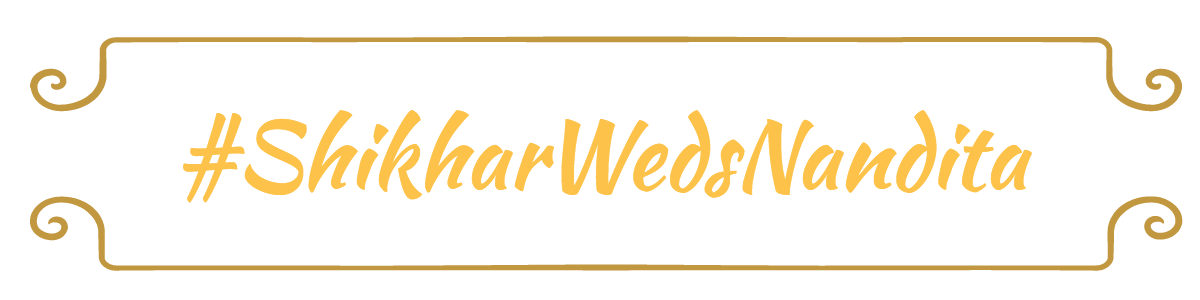
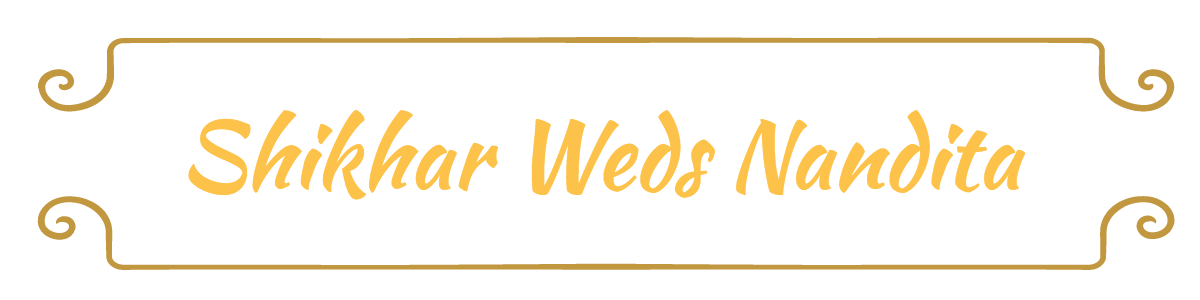
Minor Edits.

Changed region(s): [[0.1542, 0.36, 0.8633, 0.69], [0.0, 0.66, 0.9867, 0.93], [0.0, 0.12, 0.9867, 0.39]]

diff --git a/index.html b/index.html
@@ -18,7 +18,7 @@ gtag('config', 'UA-59933281-6');
     <meta name="author" content="">
     <meta name="google-site-verification" content="soPMzQDxzkpb6e2der47EKLMciXqSSe121Youw1WaVo" />
 
-    <title>#ShikharWedsNandita</title>
+    <title>Shikhar Weds Nandita</title>
 
     <!-- Bootstrap Core CSS -->
     <link href="css/bootstrap.min.css" rel="stylesheet">
@@ -91,6 +91,8 @@ gtag('config', 'UA-59933281-6');
                 <div class="col-lg-12">
                     <br><br><br><br><br><br><br><br>
                     <img src="title.png" style="width:100%;">
+                    <br>
+                      <h3>at Lucknow</h3>
                 </div>
             </div>
         </div>
@@ -129,7 +131,7 @@ gtag('config', 'UA-59933281-6');
                     <div class="row">
                       <br><br>
                       <div class="col-md-6">
-                    <h4><strong>Venue: </strong>Golden Blossom Imperial Resorts, Lucknow</h4>
+
                   </div>
                     <div class="col-mdf-6">
                     <h4 style="text-align:right;"><a href="https://www.google.co.in/maps/place/Golden+Blossom+Imperial+Resorts/@26.899999,81.094311,17z/data=!3m1!4b1!4m5!3m4!1s0x39995f5d9340c473:0xd04c8676415ea074!8m2!3d26.899999!4d81.096505">Click to Start Navigation!</a></h4>
@@ -148,10 +150,13 @@ gtag('config', 'UA-59933281-6');
             <div class="row">
                 <div class="col-lg-12">
                     <h1>RSVP</h1>
+                    <br>
                     <p>
                     We're so excited and would love it, if you could join us on this joyous occasion.
                   </p>
-                  <a href="https://docs.google.com/forms/d/e/1FAIpQLSdjUg3Y7Pq5laleYPaBBoVA4jZkdbtElBMlJ80n1aQg_FIecw/viewform?usp=sf_link" target="_blank">Click Here</a>
+                  <h4><a href="https://docs.google.com/forms/d/e/1FAIpQLSdjUg3Y7Pq5laleYPaBBoVA4jZkdbtElBMlJ80n1aQg_FIecw/viewform?usp=sf_link" target="_blank">Click Here</a></h4>
+                  <br>
+                  <img src="wine.png" style="width:200px;">
                 </div>
             </div>
         </div>
